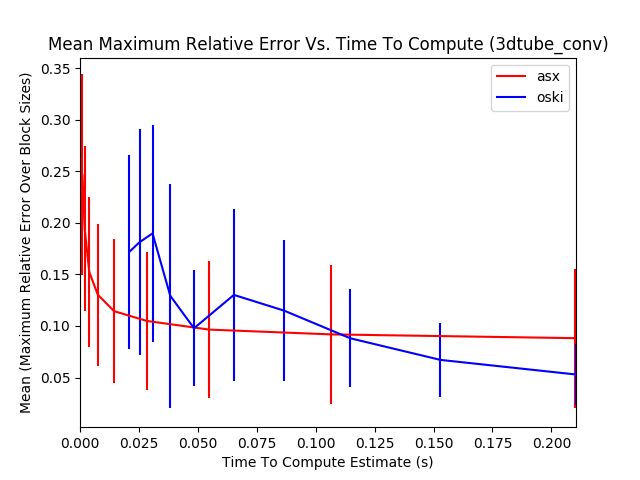
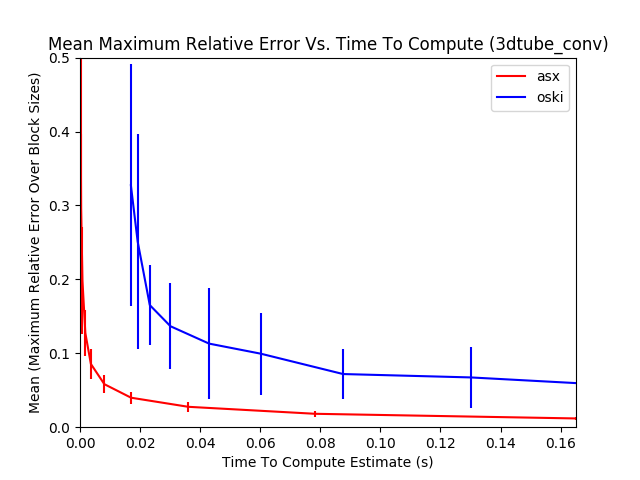
fixed plot bugs, fixed asx bugs, reran plots.

diff --git a/code/plot.py b/code/plot.py
@@ -5,97 +5,79 @@ from util import *
 B = 12
 trials = 100
 
-"""
-matrices = ["3dtube_conv", "gupta1_conv", "ct20stif", "cont-300", "freeFlyingRobot_5"]
-show_bound = False
-rate = 2.0**0.5
-bottom_error = 0.2
-oski_bottom_error = 0.2
-asx_delta = 0.01
-asx_epsilon_init = 0.5
-oski_top_error = 0.05
-oski_delta_init = 0.005
-oski_override_points = []
-override_ylim = 0.0
-"""
+def exprange(a, b, n):
+  r = (float(b) / float(a))**(1.0/(n - 1))
+  return [a * r**i for i in range(n)]
 
-matrices = ["pathological_asx"]
-show_bound = True
-rate = 2.0**0.25
-bottom_error = 0.5
-oski_bottom_error = 0.45
+n = 10
 asx_delta = 0.01
-asx_epsilon_init = 0.5
-oski_top_error = 0.10
-oski_delta_init = 0.1
-oski_override_points = []
-oski_override_points = [{"delta": delta} for delta in 2**0.9 * 2**np.arange(-1.0, -6.0, -1.0)]
-override_ylim = 0.0
 
-"""
-matrices = ["pathological_oski"]
-show_bound = True
-rate = 2.0**0.5
-bottom_error = 0.6
-oski_bottom_error = 1.5
-asx_delta = 0.01
-asx_epsilon_init = 0.5
-oski_top_error = 1.0
-oski_delta_init = 0.9
-oski_override_points = [{"delta": delta} for delta in 2**0.9 * 2**np.arange(-1.0, -6.0, -1.0)]
-override_ylim = 3.0
-"""
+methods = [{"name":"asx",
+            "color":"red",
+            "bound" : lambda point : point["epsilon"],
+            "bound_color": "green"
+            },
+           {"name":"oski",
+            "color":"blue"}]
 
-references = get_references(matrices, B = B)
+matrices = [{"name": "3dtube_conv",
+             "asx": {"points": [{"epsilon":e, "delta":asx_delta} for e in exprange(7, 0.2, n)]},
+             "oski": {"points": [{"delta":d} for d in exprange(0.001, 0.06, n)]},
+             "ymax": 0.5
+            },
+            {"name": "gupta1_conv",
+             "asx": {"points": [{"epsilon":e, "delta":asx_delta} for e in exprange(7, 0.2, n)]},
+             "oski": {"points": [{"delta":d} for d in exprange(0.001, 0.06, n)]},
+             "ymax": 0.5
+            },
+            {"name": "ct20stif",
+             "asx": {"points": [{"epsilon":e, "delta":asx_delta} for e in exprange(7, 0.2, n)]},
+             "oski": {"points": [{"delta":d} for d in exprange(0.001, 0.06, n)]},
+             "ymax": 0.5
+            },
+            {"name": "pathological_asx",
+             "asx": {"points": [{"epsilon":e, "delta":asx_delta} for e in exprange(7, 0.2, n)], "bound":True},
+             "oski": {"points": [{"delta":d} for d in exprange(0.14, 0.9, n)]},
+             "ymax": 1.5
+            },
+            {"name": "pathological_oski",
+             "asx": {"points": [{"epsilon":e, "delta":asx_delta} for e in exprange(7, 0.05, n)], "bound":True},
+             "oski": {"points": [{"delta":d} for d in exprange(0.1, 0.98, n)]},
+             "ymax": 4
+            }
+           ]
+
+references = get_references([matrix["name"] for matrix in matrices], B = B)
 for (reference, matrix) in zip(references, matrices):
-  asx_points = [{'epsilon': 0.044194173824159196, 'delta': 0.01}, {'epsilon': 0.06249999999999997, 'delta': 0.01}, {'epsilon': 0.0883883476483184, 'delta': 0.01}, {'epsilon': 0.12499999999999996, 'delta': 0.01}, {'epsilon': 0.17677669529663684, 'delta': 0.01}, {'epsilon': 0.24999999999999994, 'delta': 0.01}, {'epsilon': 0.35355339059327373, 'delta': 0.01}, {'epsilon': 0.5, 'delta': 0.01}, {'epsilon': 0.7071067811865476, 'delta': 0.01}, {'epsilon': 1.0000000000000002, 'delta': 0.01}, {'epsilon': 1.4142135623730954, 'delta': 0.01}, {'epsilon': 2.0000000000000004, 'delta': 0.01}, {'epsilon': 2.8284271247461907, 'delta': 0.01}, {'epsilon': 4.000000000000001, 'delta': 0.01}, {'epsilon': 5.6568542494923815, 'delta': 0.01}, {'epsilon': 8.000000000000002, 'delta': 0.01}]
-  oski_points = [{'delta': 0.93303299153680741}, {'delta': 0.46651649576840371}, {'delta': 0.23325824788420185}, {'delta': 0.11662912394210093}, {'delta': 0.058314561971050463}]
-
-  methods = [{"name":"asx",
-              "points":asx_points,
-              "color":"red",
-              },
-             {"name":"oski",
-              "points":oski_points,
-              "color":"blue"}]
-  if show_bound:
-    methods[0]["bound"] = lambda point : point["epsilon"]
-    methods[0]["bound_color"] = "green"
+  print(matrix["name"])
 
   xmax = 100000
   for method in methods:
+    print(method["name"])
     times = []
     errors = []
     hi_bars = []
     lo_bars = []
-    for point in method["points"]:
-      results = fill_estimates(method["name"], [matrix], B = B, results = True, trials = trials, **point)
+    for point in matrix[method["name"]]["points"]:
+      print(point)
+      results = fill_estimates(method["name"], [matrix["name"]], B = B, results = True, trials = trials, **point)
       get_errors(results, [reference])
       times.append(results[0]["time_mean"])
-      print(len(results[0]["errors"]))
-      print(sorted(results[0]["errors"]))
       errors.append(np.mean(results[0]["errors"]))
       hi_bars.append(np.std(results[0]["errors"]))
       lo_bars.append(np.std(results[0]["errors"]))
-      if len(times) > 1:
-        if times[0] < times[-1]:
-          times = times[0:-1]
-          errors = errors[0:-1]
-          hi_bars = hi_bars[0:-1]
-          lo_bars = lo_bars[0:-1]
-          break
+      print("Error: %g, Time: %g" % (errors[-1], times[-1]))
     plt.plot(times, errors, color = method["color"], label = method["name"])
-    if "bound" in method:
-      plt.plot(times, [method["bound"](point) for point in method["points"]], color = method["bound_color"], label = "%s bound" % method["name"])
+    if "bound" in matrix[method["name"]] and matrix[method["name"]]["bound"]:
+      plt.plot(times, [method["bound"](point) for point in matrix[method["name"]]["points"]], color = method["bound_color"], label = "%s bound" % method["name"])
     plt.errorbar(times, errors, yerr = [lo_bars, hi_bars], color = method["color"], linestyle="")
-    xmax = min(xmax, times[0])
+    xmax = min(xmax, max(times))
 
   plt.xlim([0, xmax])
-  if override_ylim != 0.0:
-    plt.ylim([0, override_ylim])
+  plt.ylim([0, matrix["ymax"]])
   plt.xlabel('Time To Compute Estimate (s)')
   plt.ylabel('Mean (Maximum Relative Error Over Block Sizes)')
-  plt.title('Mean Maximum Relative Error Vs. Time To Compute (%s)' % (matrix))
+  plt.title('Mean Maximum Relative Error Vs. Time To Compute (%s)' % (matrix["name"]))
   plt.legend(loc='best')
-  plt.savefig("roi_%s" % (matrix))
+  plt.savefig("roi_%s" % (matrix["name"]))
   plt.clf()

diff --git a/code/asx.c b/code/asx.c
@@ -63,9 +63,9 @@ int estimate_fill (size_t m,
   s = min(s, nnz);
 
   //Sample K items without replacement
-  size_t samples[s];
-  size_t samples_i[s];
-  size_t samples_j[s];
+  size_t *samples = (size_t*)malloc(s*sizeof(size_t));
+  size_t *samples_i = (size_t*)malloc(s*sizeof(size_t));
+  size_t *samples_j = (size_t*)malloc(s*sizeof(size_t));
   random_choose(samples, s, 0, nnz);
 
   //Create arrays of i and j
@@ -141,5 +141,8 @@ int estimate_fill (size_t m,
     }
   }
 
+  free(samples);
+  free(samples_i);
+  free(samples_j);
   return 0;
 }
